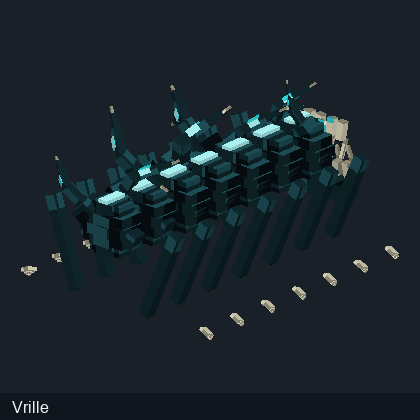
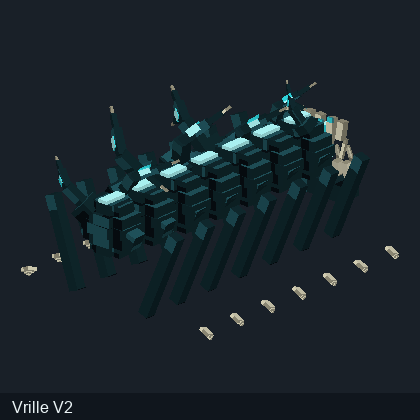
Add geometry-based 3D previews and native mod model assets

diff --git a/docs/Diagnostic-UV-2026-10-10.md b/docs/Diagnostic-UV-2026-10-10.md
@@ -1,0 +1,43 @@
+# Diagnostic des textures 3D — Deep Dark Rising
+
+Les images initiales n'avaient pas toutes les coordonnées UV correctes. Les aperçus mis à jour utilisent toujours les géométries du JAR audité, mais corrigent le traitement des textures.
+
+## Erreurs vérifiées
+
+- Dans Minecraft Java, les UV des modèles de blocs sont exprimées dans un espace de référence 16 × 16. Un PNG 32 × 32 exige donc de multiplier les coordonnées UV par deux, au lieu de n'utiliser que son quart supérieur gauche.
+
+- Le dépliage des cubes GeckoLib utilise l'ordre est, nord, ouest, sud, pas l'inversion des faces latérales employée par le premier convertisseur.
+
+- Les inversions et les rotations UV sont désormais traitées. Les textures PNG d'origine ne sont pas redessinées.
+
+## Comparaison de la même géométrie JAR
+
+Les modèles de la colonne de gauche sont les anciens aperçus UV1 conservés pour vérification; les modèles de droite sont les nouveaux aperçus UV2.
+
+| Modèle | Avant : projection incorrecte | Après : UV corrigées |
+
+| --- | --- | --- |
+
+| bloc ancient sculk heart | <img src="../assets/modeles_3d/historique_uv_v1/bloc_ancient_sculk_heart.png" width="195"> | <img src="../assets/modeles_3d/bloc_ancient_sculk_heart.png" width="195"> |
+
+| entite broyeur | <img src="../assets/modeles_3d/historique_uv_v1/entite_broyeur.png" width="195"> | <img src="../assets/modeles_3d/entite_broyeur.png" width="195"> |
+
+| entite carillonneur | <img src="../assets/modeles_3d/historique_uv_v1/entite_carillonneur.png" width="195"> | <img src="../assets/modeles_3d/entite_carillonneur.png" width="195"> |
+
+## Autre différence : modèles Blockbench historiques et modèles JAR
+
+Les archives locales de travail contiennent un modèle Blockbench historique du Broyeur comportant 34 cubes. Le JAR 1.21.11 analysé pour le wiki contient un Broyeur à 177 cubes. La texture broyeur.png est identique octet pour octet dans les deux archives (SHA-256 : 3e515451a74e2fd5f19b3dfc52637d08d139d499fad7bdf1be873ba0a4490109). La différence de silhouette provient donc bien d'une géométrie différente et ne peut pas être résolue en changeant les couleurs PNG.
+
+| Modèle Blockbench antérieur | Modèle présent dans le JAR |
+
+| --- | --- |
+
+| <img src="../assets/modeles_3d/sources_historiques/broyeur_ancien_modele_34_cubes.png" width="235"> | <img src="../assets/modeles_3d/entite_broyeur.png" width="235"> |
+
+Les autres archives Blockbench retrouvées montrent également des différences de nombres de cubes (Carillonneur : 22 contre 118 ; Déchireur : 126 contre 268). La galerie principale décrit les fichiers du JAR, pas les modèles historiques.
+
+## Limites importantes
+
+Les rendus logiciels ne sont pas des captures de Minecraft : animations, UV de couches secondaires, éclairage émissif, rotations par blockstates et effets de rendu Java peuvent être différents. Les images ne sont plus de simples PNG dépliés, mais un contrôle dans Blockbench ou Minecraft reste nécessaire pour assurer la correspondance parfaite.
+
+[Galerie des modèles 3D](Modeles-3D.md) · [Accueil](../README.md)

diff --git a/docs/Modeles-3D.md b/docs/Modeles-3D.md
@@ -2,6 +2,8 @@
 
 **Ces images montrent les véritables formes 3D reconstruites à partir des modèles contenus dans les JARs et de leurs coordonnées UV.** Ce ne sont plus les planches de textures brutes.
 
+**Attention aux coordonnées UV :** les aperçus ont été recalculés avec une correspondance corrigée entre les coordonnées UV des modèles JSON Minecraft et la résolution des PNG, ainsi que l'ordre des faces Box UV GeckoLib. Les animations et le rendu exact en jeu restent à valider. [Lire le diagnostic avec images avant/après](Diagnostic-UV-2026-10-10.md).
+
 L'aperçu utilise une caméra isométrique, une pose de repos et un éclairage logiciel. Il ne représente pas une capture d'écran de Minecraft : les animations, les shaders, les couches émissives et certaines rotations peuvent varier en jeu.
 
 Les fichiers de modèle natifs extraits du JAR restent accessibles à côté des images ; aucun modèle n'a été inventé à partir du PNG seul.

diff --git a/README.md b/README.md
@@ -9,7 +9,11 @@ Une expansion du Deep Dark dans laquelle le sculk se propage et un portail mène
 
 **Type :** fabric · **Archive :** 0.1.0, universal MC 1.21 and MC 26.
 
-## Vrais modèles 3D
+## Modèles 3D issus du JAR
+
+[Diagnostic UV et géométrie](docs/Diagnostic-UV-2026-10-10.md) — pourquoi certaines textures étaient mal appliquées et pourquoi l'ancienne géométrie Blockbench diffère du JAR.
+
+
 
 Les entités et les blocs sont maintenant visibles sous forme de rendus 3D réalisés **avec la géométrie et les textures du vrai mod** ; les planches UV sont conservées séparément pour les créateurs de contenu.
 
